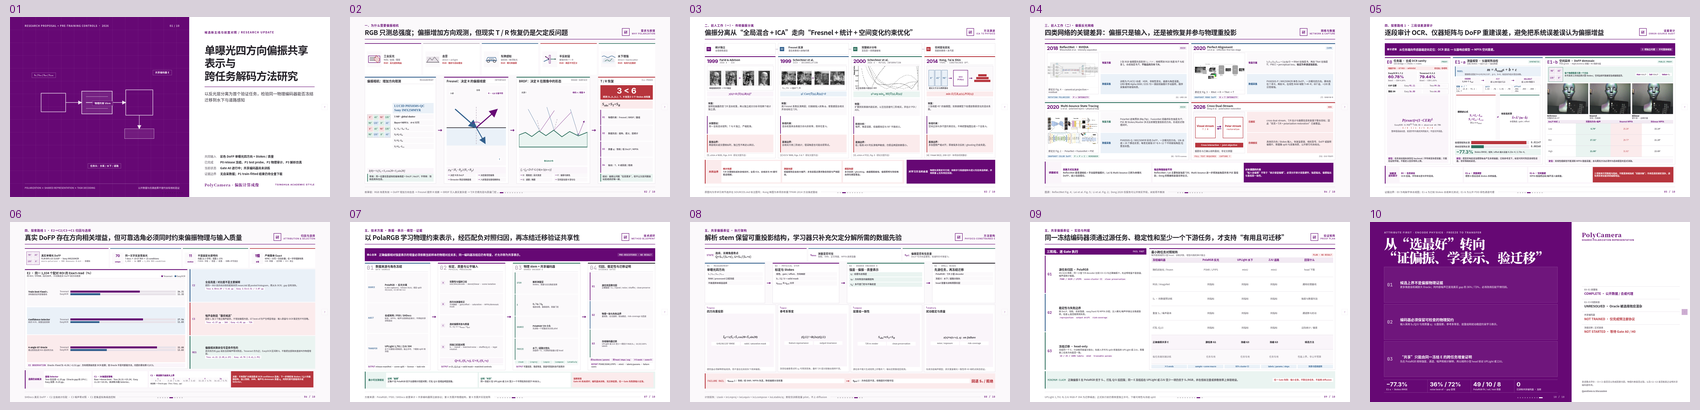
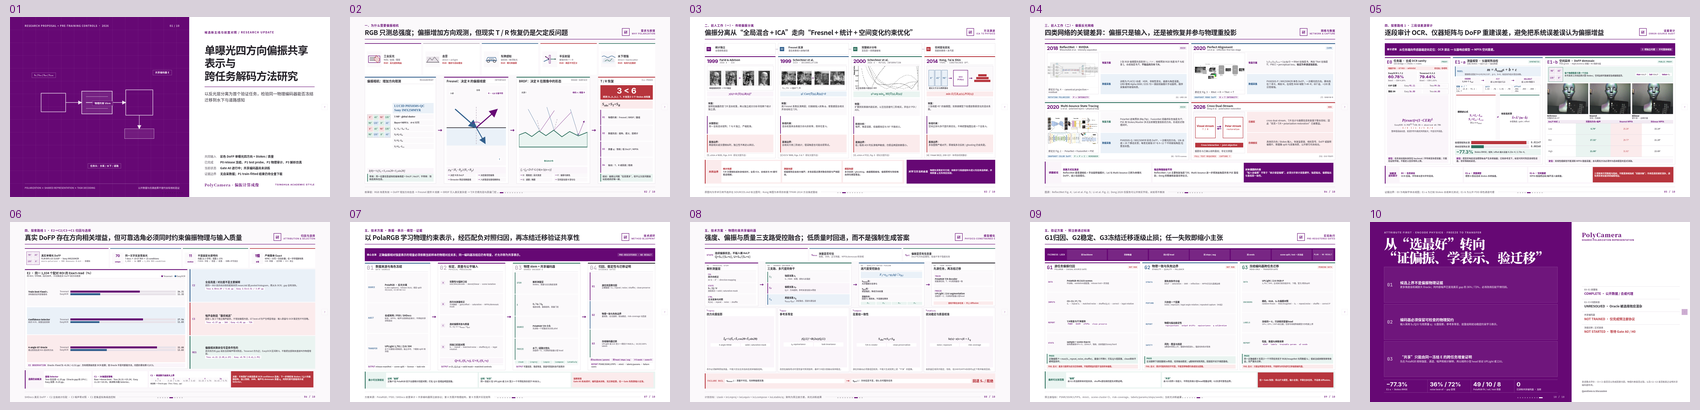
docs: refine encoder and validation gates

diff --git a/demo/tsinghua-ppt/index.html b/demo/tsinghua-ppt/index.html
@@ -846,63 +846,84 @@
   .minimum-proof{display:grid;align-content:center;padding:.44vh .46vw;background:#fff;color:var(--ink-soft);font:650 clamp(10px,.65vw,12px)/1.23 var(--sans)}.minimum-proof b{display:block;margin-bottom:.15vh;color:var(--success)}
   .minimum-proof.status{background:var(--danger-soft);color:var(--danger)}.minimum-proof.status b{color:var(--danger)}
 
-  /* 08 · 物理约束共享编码器 */
-  .physics-encoder-layout{height:100%;display:grid;grid-template-columns:1fr;grid-template-rows:7.2vh 22.5vh minmax(0,1fr) 8.4vh;gap:.82vh}
-  .representation-strip{display:grid;grid-template-columns:1.1fr 1fr 1fr;gap:.55vw}
-  .representation-card{display:grid;grid-template-columns:auto 1fr;gap:.55vw;align-items:center;padding:.6vh .62vw;border-top:3px solid var(--accent);background:#fff}
+  /* 08 · 物理约束共享编码器：三支路与质量门控 */
+  .physics-encoder-layout{height:100%;display:grid;grid-template-columns:1fr;grid-template-rows:7.2vh 24.2vh minmax(0,1fr) 8.4vh;gap:.8vh}
+  .representation-strip{display:grid;grid-template-columns:1.12fr 1fr 1fr;gap:.52vw}
+  .representation-card{display:grid;grid-template-columns:auto 1fr;gap:.52vw;align-items:center;padding:.58vh .6vw;border-top:3px solid var(--accent);background:#fff}
   .representation-card:nth-child(2){border-top-color:var(--info)}.representation-card:nth-child(3){border-top-color:var(--success)}
-  .representation-card .rid{color:var(--accent);font:800 clamp(11px,.72vw,14px)/1 var(--mono)}
-  .representation-card strong{display:block;font:750 clamp(12px,.8vw,15px)/1.15 var(--sans)}
-  .representation-card p{margin-top:.18vh;color:var(--muted);font:550 clamp(10px,.66vw,13px)/1.22 var(--sans)}
-  .representation-card .math{color:var(--ink);font-size:clamp(14px,.94vw,18px)}
-  .encoder-pipeline{display:grid;grid-template-columns:1.05fr auto 1.16fr auto 1.35fr auto 1.1fr;gap:.55vw;align-items:stretch;min-height:0}
-  .encoder-stage{display:grid;grid-template-rows:auto auto 1fr;gap:.5vh;padding:.72vh .65vw;border:1px solid var(--line);border-top:4px solid var(--info);background:#fff}
-  .encoder-stage.stem{border-top-color:var(--accent)}.encoder-stage.shared{border-top-color:var(--success)}.encoder-stage.heads{border-top-color:var(--ink)}
-  .encoder-stage .stage-id{color:var(--muted);font:800 clamp(10px,.66vw,13px)/1 var(--mono);letter-spacing:.04em}
-  .encoder-stage h2{font:750 clamp(14px,.92vw,18px)/1.16 var(--sans)}
-  .encoder-stage ul{display:grid;gap:.35vh;align-content:start;list-style:none}
-  .encoder-stage li{padding:.38vh .38vw;background:var(--paper-soft);color:var(--ink-soft);font:600 clamp(10px,.66vw,13px)/1.2 var(--sans)}
-  .encoder-stage.shared li{background:var(--success-soft)}
-  .encoder-arrow{display:grid;place-items:center;color:var(--accent);font:800 clamp(19px,1.3vw,25px)/1 var(--sans)}
-  .constraint-grid{display:grid;grid-template-columns:repeat(4,1fr);gap:.55vw;min-height:0}
-  .constraint-card{display:grid;grid-template-rows:auto auto 1fr auto;gap:.42vh;padding:.7vh .62vw;border:1px solid var(--line);background:#fff}
-  .constraint-card .loss-id{color:var(--accent);font:800 clamp(10px,.67vw,13px)/1 var(--mono)}
-  .constraint-card h3{font:750 clamp(13px,.86vw,17px)/1.16 var(--sans)}
-  .constraint-card .loss-formula{display:flex;flex-direction:column;align-items:center;justify-content:center;gap:1.2vh;padding:.55vh .4vw;background:var(--accent-pale);color:var(--ink);text-align:center;font:italic 600 clamp(14px,.96vw,18px)/1.22 var(--equation)}
-  .loss-checks{width:90%;display:grid;grid-template-columns:repeat(2,1fr);gap:.35vw;font-style:normal}
-  .loss-checks span{padding:.42vh .3vw;background:#fff;color:var(--muted);font:700 clamp(9px,.61vw,12px)/1.15 var(--sans)}
-  .constraint-card p{color:var(--muted);font:550 clamp(10px,.66vw,13px)/1.25 var(--sans)}
-  .encoder-reliability{display:grid;grid-template-columns:auto 1fr auto 1fr auto;gap:.55vw;align-items:center;padding:.58vh .65vw;background:var(--danger-soft);border-left:4px solid var(--danger)}
-  .encoder-reliability>strong{color:var(--danger);font:800 clamp(11px,.72vw,14px)/1.15 var(--mono)}
-  .encoder-reliability span{padding:.42vh .45vw;background:#fff;color:var(--ink-soft);font:650 clamp(10px,.67vw,13px)/1.2 var(--sans)}
-  .encoder-reliability em{color:var(--danger);font:800 clamp(17px,1.1vw,21px)/1 var(--sans);font-style:normal}
+  .representation-card .rid{color:var(--accent);font:800 clamp(10px,.69vw,13px)/1 var(--mono)}
+  .representation-card strong{display:block;font:750 clamp(12px,.79vw,15px)/1.15 var(--sans)}
+  .representation-card p{margin-top:.18vh;color:var(--muted);font:550 clamp(10px,.65vw,12px)/1.2 var(--sans)}
+  .representation-card .math{color:var(--ink);font-size:clamp(14px,.93vw,18px)}
+  .encoder-core-flow{display:grid;grid-template-columns:.88fr auto 1.42fr auto 1.08fr auto 1.05fr;gap:.48vw;align-items:stretch;min-height:0}
+  .encoder-core-block{min-height:0;display:grid;grid-template-rows:auto minmax(0,1fr);gap:.45vh;padding:.66vh .58vw;border:1px solid var(--line);border-top:4px solid var(--accent);background:#fff}
+  .encoder-core-block.branches{border-top-color:var(--success)}.encoder-core-block.fusion{border-top-color:var(--info)}.encoder-core-block.heads{border-top-color:var(--ink)}
+  .encoder-core-head{padding-bottom:.38vh;border-bottom:1px solid var(--line)}
+  .encoder-core-head span{display:block;color:var(--muted);font:800 clamp(9px,.59vw,11px)/1 var(--mono);letter-spacing:.04em}
+  .encoder-core-head h2{margin-top:.24vh;font:750 clamp(13px,.86vw,17px)/1.14 var(--sans)}
+  .encoder-core-arrow{display:grid;place-items:center;color:var(--accent);font:800 clamp(19px,1.28vw,25px)/1 var(--sans)}
+  .stem-steps{display:grid;grid-template-rows:repeat(3,1fr);gap:.36vh;min-height:0}
+  .stem-step{display:grid;align-content:center;padding:.45vh .4vw;background:var(--paper-soft)}
+  .stem-step b{color:var(--accent);font:800 clamp(9px,.59vw,11px)/1 var(--mono)}
+  .stem-step strong{display:block;margin-top:.2vh;font:750 clamp(10px,.67vw,12px)/1.14 var(--sans)}
+  .stem-step span{display:block;margin-top:.16vh;color:var(--muted);font:600 clamp(9px,.57vw,10px)/1.16 var(--sans)}
+  .branch-stack{display:grid;grid-template-rows:repeat(3,1fr);gap:.36vh;min-height:0}
+  .encoder-branch{display:grid;grid-template-columns:4.4em 1fr;gap:.45vw;align-items:center;padding:.45vh .4vw;background:var(--paper-soft);border-left:3px solid var(--success)}
+  .encoder-branch.pol{background:var(--accent-pale);border-left-color:var(--accent)}.encoder-branch.quality{background:var(--info-soft);border-left-color:var(--info)}
+  .encoder-branch b{color:var(--success);font:800 clamp(10px,.66vw,12px)/1.1 var(--mono)}.encoder-branch.pol b{color:var(--accent)}.encoder-branch.quality b{color:var(--info)}
+  .encoder-branch strong{display:block;font:750 clamp(10px,.68vw,13px)/1.14 var(--sans)}
+  .encoder-branch span{display:block;margin-top:.16vh;color:var(--muted);font:600 clamp(9px,.57vw,11px)/1.17 var(--sans)}
+  .fusion-stack{display:grid;grid-template-rows:auto 1fr auto;gap:.4vh;min-height:0}
+  .fusion-equation{display:grid;place-items:center;padding:.55vh .42vw;background:var(--info-soft);color:var(--info);font:italic 650 clamp(14px,.95vw,18px)/1.16 var(--equation);text-align:center}
+  .fusion-rules{display:grid;grid-template-rows:repeat(3,1fr);gap:.32vh}
+  .fusion-rules span{display:grid;align-content:center;padding:.38vh .35vw;background:var(--paper-soft);color:var(--ink-soft);font:650 clamp(9px,.6vw,11px)/1.17 var(--sans)}
+  .feature-pyramid{display:grid;grid-template-columns:repeat(4,1fr);gap:.22vw}.feature-pyramid span{padding:.32vh .18vw;background:var(--success-soft);color:var(--success);text-align:center;font:800 clamp(9px,.58vw,11px)/1 var(--mono)}
+  .head-stack{display:grid;grid-template-rows:1fr 1fr auto;gap:.38vh;min-height:0}
+  .head-card{display:grid;align-content:center;padding:.46vh .42vw;background:var(--paper-soft)}
+  .head-card b{color:var(--accent);font:800 clamp(9px,.59vw,11px)/1 var(--mono)}
+  .head-card strong{display:block;margin-top:.2vh;font:750 clamp(10px,.68vw,13px)/1.14 var(--sans)}
+  .head-card span{display:block;margin-top:.16vh;color:var(--muted);font:600 clamp(9px,.57vw,11px)/1.18 var(--sans)}
+  .head-lock{padding:.38vh .34vw;background:var(--danger-soft);color:var(--danger);text-align:center;font:750 clamp(9px,.59vw,11px)/1.14 var(--sans)}
+  .constraint-grid{display:grid;grid-template-columns:repeat(4,1fr);gap:.5vw;min-height:0}
+  .constraint-card{display:grid;grid-template-rows:auto auto 1fr auto;gap:.4vh;padding:.66vh .58vw;border:1px solid var(--line);background:#fff}
+  .constraint-card .loss-id{color:var(--accent);font:800 clamp(10px,.65vw,12px)/1 var(--mono)}
+  .constraint-card h3{font:750 clamp(12px,.82vw,16px)/1.15 var(--sans)}
+  .constraint-card .loss-formula{display:flex;flex-direction:column;align-items:center;justify-content:center;gap:1.05vh;padding:.5vh .38vw;background:var(--accent-pale);color:var(--ink);text-align:center;font:italic 600 clamp(14px,.94vw,18px)/1.2 var(--equation)}
+  .loss-checks{width:92%;display:grid;grid-template-columns:repeat(2,1fr);gap:.3vw;font-style:normal}
+  .loss-checks span{padding:.38vh .26vw;background:#fff;color:var(--muted);font:700 clamp(9px,.59vw,11px)/1.13 var(--sans)}
+  .constraint-card p{color:var(--muted);font:550 clamp(10px,.64vw,12px)/1.23 var(--sans)}
+  .encoder-reliability{display:grid;grid-template-columns:auto 1fr auto 1fr auto;gap:.52vw;align-items:center;padding:.55vh .62vw;background:var(--danger-soft);border-left:4px solid var(--danger)}
+  .encoder-reliability>strong{color:var(--danger);font:800 clamp(10px,.69vw,13px)/1.15 var(--mono)}
+  .encoder-reliability span{padding:.4vh .42vw;background:#fff;color:var(--ink-soft);font:650 clamp(10px,.65vw,12px)/1.2 var(--sans)}
+  .encoder-reliability em{color:var(--danger);font:800 clamp(16px,1.05vw,20px)/1 var(--sans);font-style:normal}
 
-  /* 09 · 三道 Gate：源任务、稳定性、冻结迁移 */
-  .proof-plan-layout{height:100%;display:grid;grid-template-columns:35% 1fr;grid-template-rows:minmax(0,1fr) 9.6vh;gap:.8vh .85vw}
-  .execution-gates{min-height:0;display:grid;grid-template-rows:auto repeat(3,1fr);gap:.48vh}
-  .execution-head{display:flex;align-items:center;justify-content:space-between;padding:.75vh .65vw;background:var(--accent);color:#fff}
-  .execution-head strong{font:800 clamp(15px,1vw,19px)/1.15 var(--sans)}
-  .execution-head span{font:750 clamp(10px,.66vw,13px)/1 var(--mono)}
-  .execution-gate{display:grid;grid-template-columns:3em 1fr;gap:.58vw;align-items:center;padding:.62vh .62vw;border-left:4px solid var(--accent);background:#fff}
-  .execution-gate:nth-child(3){border-left-color:var(--info)}.execution-gate:nth-child(4){border-left-color:var(--success)}
-  .execution-gate .gid{color:var(--accent);font:800 clamp(17px,1.12vw,22px)/1 var(--mono)}
-  .execution-gate h2{font:750 clamp(13px,.86vw,17px)/1.15 var(--sans)}
-  .execution-gate p{margin-top:.25vh;color:var(--ink-soft);font:550 clamp(10px,.67vw,13px)/1.28 var(--sans)}
-  .execution-gate .protocol-tags{display:flex;flex-wrap:wrap;gap:.25vw;margin-top:.4vh}
-  .execution-gate .protocol-tags span{padding:.24vh .3vw;background:var(--paper-soft);color:var(--accent);font:750 clamp(9px,.59vw,11px)/1 var(--mono)}
-  .proof-matrix{min-height:0;display:grid;grid-template-rows:auto minmax(0,1fr) auto;gap:.45vh;padding:.62vh .62vw;border:1px solid var(--line);border-top:4px solid var(--accent);background:#fff}
-  .proof-matrix-head{display:flex;justify-content:space-between;gap:.7vw;align-items:end}
-  .proof-matrix-head h2{font:750 clamp(14px,.92vw,18px)/1.18 var(--sans)}
-  .proof-matrix-head p{margin-top:.18vh;color:var(--muted);font:550 clamp(10px,.66vw,13px)/1.2 var(--sans)}
-  .proof-matrix-head span{padding:.34vh .4vw;background:var(--danger-soft);color:var(--danger);font:800 clamp(9px,.61vw,12px)/1 var(--mono);white-space:nowrap}
-  .proof-table{height:100%}.proof-table th,.proof-table td{padding:.48vh .42vw;text-align:center}.proof-table th:first-child,.proof-table td:first-child{text-align:left}
-  .proof-table td{font-size:clamp(11px,.73vw,14px);line-height:1.25}.proof-table tr.candidate td{background:var(--accent-pale);color:var(--ink);font-weight:700}.proof-table tr.ceiling td{background:var(--paper-soft);color:var(--muted)}
-  .proof-reporting{display:grid;grid-template-columns:repeat(5,1fr);gap:.3vw}
-  .proof-reporting span{padding:.42vh .3vw;background:var(--info-soft);color:var(--info);text-align:center;font:750 clamp(9px,.61vw,12px)/1.15 var(--sans)}
-  .proof-decision{grid-column:1/-1;display:grid;grid-template-columns:auto 1fr auto;gap:.7vw;align-items:center;padding:.65vh .68vw;background:var(--success-soft);border-left:4px solid var(--success)}
-  .proof-decision>strong{color:var(--success);font:800 clamp(11px,.72vw,14px)/1.15 var(--mono)}
-  .proof-decision>span{color:var(--ink-soft);font:700 clamp(12px,.8vw,15px)/1.28 var(--sans)}
-  .proof-decision>em{padding:.38vh .45vw;background:#fff;color:var(--danger);font:750 clamp(10px,.66vw,13px)/1.15 var(--sans);font-style:normal;text-align:center}
+  /* 09 · 预注册验证：三道 Gate 与失败含义 */
+  .gate-proof-layout{height:100%;display:grid;grid-template-columns:1fr;grid-template-rows:7.1vh minmax(0,1fr) 9.5vh;gap:.8vh}
+  .gate-fairness-strip{display:grid;grid-template-columns:auto repeat(6,1fr) auto;gap:.35vw;align-items:stretch;padding:.58vh .6vw;background:var(--accent);color:#fff}
+  .gate-fairness-strip>strong{display:grid;place-items:center;padding:0 .32vw;font:800 clamp(10px,.69vw,13px)/1.15 var(--mono)}
+  .gate-fairness-strip span{display:grid;place-items:center;padding:.38vh .3vw;background:rgba(255,255,255,.12);text-align:center;font:700 clamp(9px,.59vw,11px)/1.12 var(--sans)}
+  .gate-fairness-strip em{display:grid;place-items:center;padding:0 .4vw;background:rgba(255,255,255,.15);font:750 clamp(9px,.59vw,11px)/1.12 var(--mono);font-style:normal;white-space:nowrap}
+  .gate-card-grid{min-height:0;display:grid;grid-template-columns:repeat(3,1fr);gap:.65vw}
+  .gate-proof-card{min-height:0;display:grid;grid-template-rows:auto minmax(0,1fr) auto auto;gap:.48vh;padding:.66vh .6vw;border:1px solid var(--line);border-top:4px solid var(--accent);background:#fff}
+  .gate-proof-card.g2{border-top-color:var(--info)}.gate-proof-card.g3{border-top-color:var(--success)}
+  .gate-proof-head{display:grid;grid-template-columns:auto 1fr auto;gap:.5vw;align-items:center;padding-bottom:.42vh;border-bottom:1px solid var(--line)}
+  .gate-proof-head .gid{color:var(--accent);font:800 clamp(22px,1.55vw,30px)/1 var(--mono)}.gate-proof-card.g2 .gid{color:var(--info)}.gate-proof-card.g3 .gid{color:var(--success)}
+  .gate-proof-head h2{font:750 clamp(14px,.92vw,18px)/1.14 var(--sans)}
+  .gate-proof-head p{margin-top:.17vh;color:var(--muted);font:650 clamp(9px,.59vw,11px)/1.14 var(--sans)}
+  .gate-proof-head .state{padding:.32vh .38vw;background:var(--danger-soft);color:var(--danger);font:800 clamp(9px,.58vw,11px)/1 var(--mono);white-space:nowrap}
+  .gate-proof-body{min-height:0;display:grid;grid-template-rows:repeat(4,1fr);gap:.38vh}
+  .gate-protocol-block{display:grid;grid-template-columns:5.4em 1fr;gap:.45vw;align-items:center;padding:.45vh .42vw;background:var(--paper-soft)}
+  .gate-protocol-block b{color:var(--accent);font:800 clamp(9px,.59vw,11px)/1.08 var(--mono)}.gate-proof-card.g2 .gate-protocol-block b{color:var(--info)}.gate-proof-card.g3 .gate-protocol-block b{color:var(--success)}
+  .gate-protocol-block strong{display:block;font:750 clamp(10px,.68vw,13px)/1.14 var(--sans)}
+  .gate-protocol-block span{display:block;margin-top:.16vh;color:var(--muted);font:600 clamp(9px,.58vw,11px)/1.18 var(--sans)}
+  .gate-metric-tags{display:flex;flex-wrap:wrap;gap:.24vw;margin-top:.22vh}.gate-metric-tags i{padding:.24vh .28vw;background:#fff;color:var(--accent);font:750 clamp(8px,.55vw,10px)/1 var(--mono);font-style:normal}
+  .gate-pass{padding:.55vh .48vw;background:var(--success-soft);border-left:3px solid var(--success);color:var(--ink-soft);font:650 clamp(10px,.65vw,12px)/1.23 var(--sans)}
+  .gate-pass b{display:block;margin-bottom:.16vh;color:var(--success);font-weight:800}
+  .gate-fail{padding:.48vh .45vw;background:var(--danger-soft);color:var(--danger);font:750 clamp(9px,.61vw,11px)/1.2 var(--sans)}
+  .gate-final{display:grid;grid-template-columns:auto 1.1fr 1.1fr auto;gap:.45vw;align-items:stretch;padding:.58vh .6vw;background:var(--success-soft);border-left:4px solid var(--success)}
+  .gate-final>strong{display:grid;place-items:center;padding:0 .3vw;color:var(--success);font:800 clamp(10px,.69vw,13px)/1.15 var(--mono);text-align:center}
+  .gate-final-item{display:grid;align-content:center;padding:.43vh .45vw;background:#fff;color:var(--ink-soft);font:650 clamp(10px,.65vw,12px)/1.22 var(--sans)}.gate-final-item b{display:block;margin-bottom:.15vh;color:var(--success)}
+  .gate-final em{display:grid;place-items:center;padding:.42vh .5vw;background:var(--danger);color:#fff;text-align:center;font:750 clamp(10px,.64vw,12px)/1.2 var(--sans);font-style:normal}
 
   /* 10 · 结果式收束 */
   .compact-closing{height:100%;display:grid;grid-template-columns:63% 1fr;background:var(--accent);color:#fff}
@@ -1203,22 +1224,24 @@
 </section>
 
 <section class="slide soft" data-layout="THU11" data-animate="academic" data-slide-id="physics-constrained-encoder">
-  <div class="thu-page"><header class="thu-header"><div><div class="thu-section">五、共享偏振表征 · 执行架构</div><h1 class="thu-title">解析 stem 保留可重投影结构，学习器只补充欠定分解所需的数据先验</h1></div><div class="thu-brand"><div class="thu-brand-mark">研</div><div class="thu-brand-copy"><strong>方法架构</strong><span>Physics-constrained E</span></div></div></header>
+  <div class="thu-page"><header class="thu-header"><div><div class="thu-section">五、技术方案 · 物理约束共享编码器</div><h1 class="thu-title">强度、偏振与质量三支路受控融合；低质量时回退，而不是强制生成答案</h1></div><div class="thu-brand"><div class="thu-brand-mark">研</div><div class="thu-brand-copy"><strong>模型细化</strong><span>PHYSICS-CONSTRAINED E</span></div></div></header>
   <main class="thu-content tight"><div class="physics-encoder-layout architecture-layout">
-    <div class="representation-strip" data-anim><article class="representation-card"><span class="rid">STATE</span><div><strong>连续、无裸角度奇点</strong><p class="math">Q=S₁/(S₀+ε), U=S₂/(S₀+ε)</p></div></article><article class="representation-card"><span class="rid">q<sub>meas</sub></span><div><strong>测量是否可信</strong><p>饱和、SNR、正交残差、MPFA 高频混叠</p></div></article><article class="representation-card"><span class="rid">q<sub>pol</sub></span><div><strong>偏振是否有信息量</strong><p>DoLP 与方向显著性；低值时仍可保留 S₀</p></div></article></div>
-    <div class="encoder-pipeline" data-anim><article class="encoder-stage"><span class="stage-id">01 · MEASUREMENT</span><h2>单曝光四方向</h2><ul><li>I₀ / I₄₅ / I₉₀ / I₁₃₅</li><li>RAW / processed 口径冻结</li><li>不做逐样本候选选择</li></ul></article><span class="encoder-arrow">→</span><article class="encoder-stage stem"><span class="stage-id">02 · PHYSICAL STEM</span><h2>标定与 Stokes</h2><ul><li>线性、gain / offset、方向映射</li><li>S₀ / Q / U + valid mask</li><li>q<sub>meas</sub> 与 q<sub>pol</sub> 分开</li></ul></article><span class="encoder-arrow">→</span><article class="encoder-stage shared"><span class="stage-id">03 · SHARED ENCODER E</span><h2>强度—偏振—质量表示</h2><ul><li>z<sub>I</sub>：纹理与总强度</li><li>z<sub>P</sub>：方向等变的偏振结构</li><li>z<sub>q</sub>：多尺度门控与不确定度</li></ul></article><span class="encoder-arrow">→</span><article class="encoder-stage heads"><span class="stage-id">04 · SMALL HEADS</span><h2>先源任务，再冻结迁移</h2><ul><li>PolaRGB：T/R 小型 decoder</li><li>冻结 E：水下 / 道路分割头</li><li>head 容量与训练预算匹配</li></ul></article></div>
-    <div class="constraint-grid" data-anim><article class="constraint-card"><span class="loss-id">L<sub>reproj</sub></span><h3>四方向重投影</h3><div class="loss-formula"><span>Î<sub>θ</sub>=½(Ŝ₀+Ŝ₁cos2θ+Ŝ₂sin2θ)</span><div class="loss-checks"><span>0/45/90/135° RMSE</span><span>valid / saturation mask</span></div></div><p>潜变量必须解释原始观测，而不是在任务损失下丢掉偏振。</p></article><article class="constraint-card"><span class="loss-id">L<sub>equiv</sub></span><h3>参考系等变</h3><div class="loss-formula"><span>(Q,U)′=R(2α)(Q,U)</span><div class="loss-checks"><span>feature equivariance</span><span>output invariance</span></div></div><p>改变检偏角零点时 z<sub>P</sub> 可预测变换，最终 T/R 或分割输出保持不变。</p></article><article class="constraint-card"><span class="loss-id">L<sub>compose</sub></span><h3>层重组一致性</h3><div class="loss-formula"><span>S<sub>obs</sub>≈τS<sub>T</sub>+S<sub>R</sub></span><div class="loss-checks"><span>T/R re-render</span><span>clean preservation</span></div></div><p>源任务不能只生成视觉上好看的 T；输出层需重组回观测。</p></article><article class="constraint-card"><span class="loss-id">L<sub>stable/q</sub></span><h3>扰动稳定与质量</h3><div class="loss-formula"><span>z(x)≈z(x+ε), q↓ on failure</span><div class="loss-checks"><span>noise / exposure</span><span>risk–coverage</span></div></div><p>先用冻结噪声模型；真实重复曝光一致性待 H0 相机试采后验证。</p></article></div>
-    <div class="encoder-reliability" data-anim><strong>FAILURE RAIL</strong><span><b>q<sub>meas</sub>↓：</b>饱和 / 低 SNR / MPFA 失真，降低偏振分支权重</span><em>→</em><span><b>q<sub>pol</sub>↓：</b>方向信息不足，但强度仍可能可信</span><em>回退 S₀ / 拒绝</em></div>
-  </div></main><footer class="thu-footer"><span>计划损失：Ltask + λrLreproj + λeLequiv + λcLcompose + λsLstable/q；首轮仅训练轻量 pilot，不上 diffusion</span><span class="thu-footer-line"></span><span class="thu-page-no">08 / 10</span></footer></div>
+    <div class="representation-strip" data-anim><article class="representation-card"><span class="rid">STATE</span><div><strong>连续偏振状态，不输入裸 AoLP</strong><p class="math">Q=S₁/(S₀+ε), U=S₂/(S₀+ε)</p></div></article><article class="representation-card"><span class="rid">q<sub>meas</sub></span><div><strong>测量是否可信</strong><p>饱和、SNR、正交残差、MPFA/demosaic有效域</p></div></article><article class="representation-card"><span class="rid">q<sub>pol</sub></span><div><strong>偏振是否有信息量</strong><p>DoLP与方向显著性；低值不等于强度无效</p></div></article></div>
+    <div class="encoder-core-flow" data-anim><article class="encoder-core-block stem"><div class="encoder-core-head"><span>01 · PHYSICAL STEM</span><h2>解析测量层</h2></div><div class="stem-steps"><div class="stem-step"><b>CAL</b><strong>四方向校正</strong><span>m−b · Â<sup>+</sup> · direction mapping</span></div><div class="stem-step"><b>STATE</b><strong>S₀ / Q / U</strong><span>连续表示 + valid / saturation mask</span></div><div class="stem-step"><b>CTRL</b><strong>合法变换与对照</strong><span>R(2α) · repeat · noise · shuffle</span></div></div></article><span class="encoder-core-arrow">→</span><article class="encoder-core-block branches"><div class="encoder-core-head"><span>02 · SHARED ENCODER E</span><h2>三支路、多尺度同骨干</h2></div><div class="branch-stack"><div class="encoder-branch"><b>E<sub>I</sub></b><div><strong>强度支路 z<sub>I</sub></strong><span>S₀ / RGB：纹理、颜色与总强度</span></div></div><div class="encoder-branch pol"><b>E<sub>P</sub></b><div><strong>偏振支路 z<sub>P</sub></strong><span>Q,U：方向结构；参考系变化按2α等变</span></div></div><div class="encoder-branch quality"><b>E<sub>q</sub></b><div><strong>质量支路 z<sub>q</sub></strong><span>q<sub>meas</sub>,q<sub>pol</sub>：决定融合、回退与置信度</span></div></div></div></article><span class="encoder-core-arrow">→</span><article class="encoder-core-block fusion"><div class="encoder-core-head"><span>03 · QUALITY-GATED FUSION</span><h2>逐尺度受控融合</h2></div><div class="fusion-stack"><div class="fusion-equation"><span>F<sub>ℓ</sub>=z<sub>I,ℓ</sub>+g<sub>ℓ</sub>(q)⊙z<sub>P,ℓ</sub></span></div><div class="fusion-rules"><span><b>q<sub>meas</sub>高：</b>允许偏振分支参与</span><span><b>q<sub>pol</sub>低：</b>保留强度，降低方向权重</span><span><b>测量失效：</b>回退 S₀ 或拒绝，不高置信猜测</span></div><div class="feature-pyramid"><span>F₁</span><span>F₂</span><span>F₃</span><span>F₄</span></div></div></article><span class="encoder-core-arrow">→</span><article class="encoder-core-block heads"><div class="encoder-core-head"><span>04 · TASK HEADS</span><h2>先源任务，再冻结迁移</h2></div><div class="head-stack"><div class="head-card"><b>TRAIN</b><strong>PolaRGB T/R decoder</strong><span>轻量源任务；T、R与观测重组一致</span></div><div class="head-card"><b>FREEZE</b><strong>UPLight / ZJU segmentation</strong><span>冻结同一 E；只训练同容量小型head</span></div><div class="head-lock">首轮不联合多任务 · 不上 diffusion</div></div></article></div>
+    <div class="constraint-grid" data-anim><article class="constraint-card"><span class="loss-id">L<sub>reproj</sub></span><h3>四方向重投影</h3><div class="loss-formula"><span>Î<sub>θ</sub>=½(Ŝ₀+Ŝ₁cos2θ+Ŝ₂sin2θ)</span><div class="loss-checks"><span>4-angle RMSE</span><span>valid / saturation mask</span></div></div><p>表示必须解释原始测量，不能只优化任务指标后丢掉偏振结构。</p></article><article class="constraint-card"><span class="loss-id">L<sub>equiv</sub></span><h3>参考系等变</h3><div class="loss-formula"><span>(Q,U)′=R(2α)(Q,U)</span><div class="loss-checks"><span>z<sub>P</sub> equivariance</span><span>task invariance</span></div></div><p>改变检偏角零点时潜变量可预测旋转，最终T/R或分割输出保持稳定。</p></article><article class="constraint-card"><span class="loss-id">L<sub>compose</sub></span><h3>层重组一致性</h3><div class="loss-formula"><span>S<sub>obs</sub>≈τS<sub>T</sub>+S<sub>R</sub></span><div class="loss-checks"><span>T/R re-render</span><span>clean preservation</span></div></div><p>源任务输出必须重组回观测，不能只生成视觉上更“干净”的图像。</p></article><article class="constraint-card"><span class="loss-id">L<sub>stable/q</sub></span><h3>扰动稳定与质量校准</h3><div class="loss-formula"><span>‖z(x)−z(x+ε)‖ + L<sub>q</sub></span><div class="loss-checks"><span>noise / exposure</span><span>risk–coverage</span></div></div><p>高质量区域表示稳定；饱和、低SNR与MPFA失败时q应下降并触发回退。</p></article></div>
+    <div class="encoder-reliability" data-anim><strong>FAILURE RAIL</strong><span><b>q<sub>meas</sub>↓：</b>测量不可信，先抑制偏振支路</span><em>→</em><span><b>q<sub>pol</sub>↓：</b>方向信息不足，但S₀仍可服务任务</span><em>回退 S₀ / 拒绝</em></div>
+  </div></main><footer class="thu-footer"><span>计划目标：Ltask + λrLreproj + λeLequiv + λcLcompose + λsLstable/q；架构为预注册方案，尚无训练结果</span><span class="thu-footer-line"></span><span class="thu-page-no">08 / 10</span></footer></div>
 </section>
 
 <section class="slide" data-layout="THU12" data-animate="academic" data-slide-id="encoder-proof-plan">
-  <div class="thu-page"><header class="thu-header"><div><div class="thu-section">五、共享偏振表征 · 实验与判据</div><h1 class="thu-title">同一冻结编码器须通过源任务、稳定性和至少一个下游任务，才支持“有用且可迁移”</h1></div><div class="thu-brand"><div class="thu-brand-mark">研</div><div class="thu-brand-copy"><strong>验证矩阵</strong><span>Proof Plan</span></div></div></header>
-  <main class="thu-content tight"><div class="proof-plan-layout experiment-layout">
-    <div class="execution-gates" data-anim><div class="execution-head"><strong>三阶段、逐 Gate 执行</strong><span>FAIL FAST</span></div><article class="execution-gate"><span class="gid">G1</span><div><h2>源任务归因 · PolaRGB</h2><p>49/10/8 场景；同一小型 T/R decoder 比较 C0–C3 与正确偏振 P，先证明增量不是容量、噪声或统计偏差。</p><div class="protocol-tags"><span>PSNR / SSIM / LPIPS</span><span>scene-cluster CI</span><span>clean preservation</span></div></div></article><article class="execution-gate"><span class="gid">G2</span><div><h2>稳定性与失败边界</h2><p>按 DoLP、饱和、反射强度、easy/hard 与 MPFA 分组；注入曝光/噪声并做合法角度旋转，检查 q 是否能预测失败。</p><div class="protocol-tags"><span>reprojection</span><span>output drift</span><span>risk–coverage</span></div></div></article><article class="execution-gate"><span class="gid">G3</span><div><h2>冻结迁移 · head-only</h2><p>冻结同一个 E，只训练同容量分割头；先接入许可与 split 核查后的 UPLight 或 ZJU，再看第二任务方向是否一致。</p><div class="protocol-tags"><span>10 / 25 / 100% labels</span><span>mIoU</span><span>trainable params</span></div></div></article></div>
-    <article class="proof-matrix" data-anim><div class="proof-matrix-head"><div><h2>最小跨任务对照矩阵</h2><p>每列使用相同小型 head、训练步数、增强与随机种子集合</p></div><span>PLAN · NO RESULT</span></div><table class="proof-table"><thead><tr><th>冻结编码器</th><th>PolaRGB 反光</th><th>UPLight 水下</th><th>ZJU 道路</th><th>回答什么</th></tr></thead><tbody><tr><td>随机初始化 / frozen</td><td>PSNR / LPIPS</td><td>mIoU</td><td>mIoU</td><td>head 下限</td></tr><tr><td>RGB / ImageNet</td><td>同指标</td><td>同指标</td><td>同指标</td><td>通用纹理基线</td></tr><tr><td>S₀ · 同数据预训练</td><td>同指标</td><td>同指标</td><td>同指标</td><td>强度与数据先验</td></tr><tr><td>重复 S₀ / 噪声副本</td><td>同指标</td><td>同指标</td><td>同指标</td><td>通道数与扰动</td></tr><tr><td>打乱 (Q,U)</td><td>同指标</td><td>同指标</td><td>同指标</td><td>边际统计 / 偏差</td></tr><tr class="candidate"><td>正确偏振共享 E</td><td><strong>源任务 G1</strong></td><td><strong>冻结 G3</strong></td><td><strong>冻结 G3</strong></td><td>候选方法</td></tr><tr class="ceiling"><td>每任务端到端训练</td><td>任务专用</td><td>任务专用</td><td>任务专用</td><td>性能上界，非公平预算</td></tr></tbody></table><div class="proof-reporting"><span>≥3 seeds</span><span>sample + scene macro</span><span>95% cluster CI</span><span>labels / params / steps</span><span>失败与拒绝案例</span></div></article>
-    <div class="proof-decision" data-anim><strong>MINIMUM CLAIM</strong><span>正确偏振 E 在 PolaRGB 优于 S₀，打乱 Q/U 后回落；同一 E 冻结后在 UPLight 或 ZJU 至少一项仍优于 S₀/RGB，并在低标注量或参数效率上体现收益。</span><em>任一 Gate 失败：缩小主张，不联合多任务、不启用 diffusion</em></div>
-  </div></main><footer class="thu-footer"><span>UPLight 1,791 与 ZJU RGB-P 394 为迁移候选；正式执行前仍需核查独立许可、下载可用性与冻结 split</span><span class="thu-footer-line"></span><span class="thu-page-no">09 / 10</span></footer></div>
+  <div class="thu-page"><header class="thu-header"><div><div class="thu-section">五、验证方案 · 预注册通过标准</div><h1 class="thu-title">G1归因、G2稳定、G3冻结迁移逐级止损；任一失败即缩小主张</h1></div><div class="thu-brand"><div class="thu-brand-mark">研</div><div class="thu-brand-copy"><strong>实验执行</strong><span>PRE-REGISTERED GATES</span></div></div></header>
+  <main class="thu-content tight"><div class="gate-proof-layout experiment-layout">
+    <div class="gate-fairness-strip" data-anim><strong>FAIRNESS LOCK</strong><span>同 backbone</span><span>同参数量</span><span>同小型 head</span><span>同 steps / aug</span><span>同 seeds</span><span>scene split / test 一次冻结</span><em>PLAN · NO RESULT</em></div>
+    <div class="gate-card-grid" data-anim><article class="gate-proof-card g1"><div class="gate-proof-head"><span class="gid">G1</span><div><h2>源任务偏振归因</h2><p>POLARGB · CAUSAL SOURCE GATE</p></div><span class="state">NOT RUN</span></div><div class="gate-proof-body"><div class="gate-protocol-block"><b>DATA</b><div><strong>PolaRGB 49/10/8 scenes</strong><span>fit训练、validation选配置、release test一次冻结</span></div></div><div class="gate-protocol-block"><b>INPUTS</b><div><strong>C0–C3 / P / T1</strong><span>S₀ · repeat S₀ · matched noise · shuffle(Q,U) · correct · legal rotation</span></div></div><div class="gate-protocol-block"><b>REPORT</b><div><strong>T/R恢复与干净保持</strong><div class="gate-metric-tags"><i>PSNR↑</i><i>SSIM↑</i><i>LPIPS↓</i><i>clean preserve</i></div></div></div><div class="gate-protocol-block"><b>STATS</b><div><strong>sample + scene macro</strong><span>按场景聚类95% CI；分DoLP、饱和、反射强度与easy/hard</span></div></div></div><div class="gate-pass"><b>PASS</b>正确偏振 P &gt; max{S₀, repeat, noise, shuffle}，差值CI不跨0；打乱Q/U后回落，clean样本不被明显改坏。</div><div class="gate-fail">FAIL 含义：最多只能称为反光任务网络，不能把增益归因于当前样本偏振。</div></article>
+      <article class="gate-proof-card g2"><div class="gate-proof-head"><span class="gid">G2</span><div><h2>物理一致与失败边界</h2><p>STABILITY · QUALITY · FALLBACK</p></div><span class="state">NOT RUN</span></div><div class="gate-proof-body"><div class="gate-protocol-block"><b>STRATA</b><div><strong>按失效条件分组</strong><span>DoLP · saturation · SNR · reflection · MPFA方法与高频边缘</span></div></div><div class="gate-protocol-block"><b>PERTURB</b><div><strong>只改变一个因素</strong><span>noise / exposure / legal angle rotation / repeated capture（H0后）</span></div></div><div class="gate-protocol-block"><b>REPORT</b><div><strong>物理与输出稳定性</strong><div class="gate-metric-tags"><i>reprojection↓</i><i>output drift↓</i><i>equivariance</i><i>q calibration</i></div></div></div><div class="gate-protocol-block"><b>SAFETY</b><div><strong>风险—覆盖与回退</strong><span>q降低时风险上升；偏振失效回退S₀，强度也失效才拒绝</span></div></div></div><div class="gate-pass"><b>PASS</b>合法旋转下潜变量按2α等变、任务输出稳定；q能排序失败风险，回退后不劣于强度基线。</div><div class="gate-fail">FAIL 含义：表示可能有效但不可靠，不能宣称物理约束或安全部署。</div></article>
+      <article class="gate-proof-card g3"><div class="gate-proof-head"><span class="gid">G3</span><div><h2>冻结编码器跨任务迁移</h2><p>HEAD-ONLY · TRANSFER GATE</p></div><span class="state">PENDING DATA</span></div><div class="gate-proof-body"><div class="gate-protocol-block"><b>DATA</b><div><strong>UPLight / ZJU RGB-P</strong><span>1,791 / 394；正式执行前冻结许可、下载、官方/项目split</span></div></div><div class="gate-protocol-block"><b>ENCODERS</b><div><strong>随机、RGB、S₀与偏振对照</strong><span>random frozen · RGB/ImageNet · S₀ · repeat/noise · shuffle · correct P</span></div></div><div class="gate-protocol-block"><b>LABELS</b><div><strong>冻结同一 E，只训练同容量head</strong><span>10% / 25% / 100%标注量；任务专用端到端模型只作性能上界</span></div></div><div class="gate-protocol-block"><b>REPORT</b><div><strong>性能、数据与参数效率</strong><div class="gate-metric-tags"><i>mIoU↑</i><i>labels</i><i>trainable params</i><i>≥3 seeds</i></div></div></div></div><div class="gate-pass"><b>PASS</b>同一正确偏振 E 在至少一个不同任务优于 RGB/ImageNet 与同数据 S₀；低标注或参数效率有收益，无严重负迁移。</div><div class="gate-fail">FAIL 含义：只能证明源任务有效，不能称为共享或可迁移偏振编码器。</div></article></div>
+    <div class="gate-final" data-anim><strong>最终可主张范围</strong><div class="gate-final-item"><b>“偏振”</b>由 G1 的当前样本对应关系、shuffle退化和匹配负对照证明。</div><div class="gate-final-item"><b>“共享”</b>由 G3 的同一冻结 E、不同任务和小型head增量证明；G2负责可靠性边界。</div><em>任一 Gate 失败：停止扩大模型，缩小主张；不联合多任务、不启用 diffusion。</em></div>
+  </div></main><footer class="thu-footer"><span>预注册指标：PSNR/SSIM/LPIPS、mIoU、scene-cluster CI、risk–coverage、labels/params/steps/seeds；当前无训练结果</span><span class="thu-footer-line"></span><span class="thu-page-no">09 / 10</span></footer></div>
 </section>
 
 <section class="slide accent" data-layout="THU17" data-animate="academic" data-slide-id="conclusion">
@@ -1237,8 +1260,8 @@ const SPEAKER_NOTES = [
   {id:'route1-foundation',title:'探索路线 1 · 三段误差源审计',section:'探索路线 1',minutes:1.3,purpose:'从任务读出、仪器响应和 DoFP 空间重建三段逆向定位偏振系统中的独立误差源',talk:['这不是把三项百分比相加的统一误差预算；E0、E1-a、E1-b 使用不同数据与指标，作用是逐段锁定混杂因素','E0 是电脑字体、GT ROI 与字符白名单下的软件 sanity：EasyOCR 的 CER 只有 4.20%，但字符串长度和易混字符会把整串 Exact 放大到 60.78%，它不是实拍喷码上限','E1-a 把测量写成 m=Areal·s+b+ε；用已知合成 Stokes 的前 2,500 组估计 A,b，再在留出的 2,500 组反演，RMSE 从理想矩阵的 0.01147 降到 0.00260','E1-b 模拟 2×2 MPFA 每像素只测一个方向，再比较完整四方向、最近邻和双线性；伪彩图中色相是 AoLP、饱和度是 DoLP、亮度是 S0','双线性减轻但没有消除空间插值误差，所以 OCR backend、标定矩阵和 demosaic 都必须冻结或进入后续消融，不能被模型增益吸收'],transition:'三段测量链误差被显式化后，下一页继续检验 E2 的 Oracle gap 是否只是候选数量、图像统计和噪声选择效应',cue:'按左到右讲三段误差源；E1-b 先指 2×2 排列，再读伪彩图图例和 40 场景均值表'},
   {id:'route1-hypothesis-chain',title:'E2–C3–C1 · 方向归因与选择',section:'探索路线 1',minutes:1.3,purpose:'把真实 DoFP 方向差异、亮度统计、噪声选择下限和密集候选控制串成一条归因—选择—决策链',talk:['E2 的真实 DoFP 配对结果先建立观察：同一 ROI、字符串和高光条件下，Oracle–Fixed 在 Tesseract / EasyOCR 上为 +6.58 / +2.51 pp，说明四方向观测会改变 OCR 输出；绝对正确率仍受 1–376 字符和严格 Exact 压低','C2 把每个 ROI 的四方向匹配到共同 mean/std 或 pooled histogram 后重新 OCR；Tesseract gap 仍为 6.09 / 5.61 pp，Easy 为 2.51 / 3.87 pp，因此全局亮度和对比度不是主要解释，但局部高光结构仍被保留','C3 固定 I0，只加入三个独立噪声副本；GT best-of 已产生 +2.37 / +1.81 pp，相当于真实 gap 的 36% / 72%。这说明噪声与 OCR 稳定性会制造“最优候选”，输入质量必须进入方法主体','用真实 gap 对比当前噪声零对照后，Tesseract 仍剩 +4.21 pp 且区间不跨 0，Easy 只剩 +0.70 pp 且区间跨 0；因此偏振相关剩余信号是条件性、后端相关的，不能把全部剩余直接叫作物理增益','基础 confidence selector 对 Tesseract 只兑现 Oracle gap 的 19%，Easy 还下降；C1 的36角固定策略不优于 raw，而候选数只把 Oracle gap 放大到 14.41 / 5.71 pp。C1 没有训练36路 selector，结论是单纯扩大搜索空间无解，下一步应用校准 Stokes/Q,U 与饱和、SNR、噪声、demosaic 质量 q 共同约束可部署表示或 Selector'],transition:'方向差异、输入质量和候选选择已经分开后，下一页进一步用匹配输入干预定义什么结果才允许归因于当前样本的真实偏振信息',cue:'按左侧 E2 → 右侧 C2/C3/剩余信号 → 底部 Selector/C1 → 红色决策条的顺序讲'},
   {id:'polarization-attribution',title:'技术方案 · 数据到证据闭环',section:'共享偏振表征',minutes:1.3,purpose:'用一页总览数据来源、物理处理、共享编码器与三道证据 Gate，建立第 8–9 页的执行导航',talk:['数据按角色冻结：PolaRGB 是 6,500 组反光分离源任务并使用项目 49/10/8 场景划分；合成矩阵、PDD 和 SHDocs 只做标定、MPFA、噪声与选择效应审计；UPLight 与 ZJU 是许可和 split 待核查的冻结迁移候选','数据处理先冻结完整性、scene isolation 与 stored/linear 口径，再校正方向映射、gain/offset、饱和与 MPFA；主表示采用 S0/Q/U 和分开的 q_meas、q_pol','重复 S0、匹配噪声、跨样本打乱 Q/U 与合法零点旋转从数据接口阶段生成，确保负对照不是训练后补解释','模型由解析 physical stem、共享编码器 E 和同容量小型任务头组成；先训练 PolaRGB T/R pilot，再冻结同一 E 接水下或道路分割头','结果必须依次通过 G1 源任务归因、G2 物理一致与失败边界、G3 冻结迁移；当前仅完成预注册，编码器和迁移均无结果'],transition:'总体闭环确定后，下一页展开 physical stem、双质量变量、共享潜表示与四类损失如何具体实现',cue:'沿 01→04 从左到右讲，最后只读底部“证明偏振 / 证明共享 / 当前状态”三条'},
-  {id:'physics-constrained-encoder',title:'物理约束共享编码器',section:'共享偏振表征',minutes:1.2,purpose:'定义解析 stem、双质量变量、共享表示和四类可验证约束',talk:['主输入使用 S0、Q、U，避免直接输入低 DoLP 区不稳定的裸 AoLP','q_meas 表示测量是否可信，q_pol 表示偏振是否有信息量；高 DoLP 但饱和与低 DoLP 但强度可信必须区分','编码器分出强度表示 zI、方向等变偏振表示 zP 和质量门控 zq，再连接小型任务头','重投影约束防止网络丢掉四方向物理，参考系等变约束角度几何，层重组约束源任务解释观测','扰动稳定先用冻结噪声模型；真实重复曝光只能在 H0 相机试采后验证，当前不冒充已有结果'],transition:'有了方法结构后，下一页给出怎样训练、怎样冻结、什么结果才算有用'},
-  {id:'encoder-proof-plan',title:'共享编码器实验与通过判据',section:'共享偏振表征',minutes:1.2,purpose:'用 G1 源任务归因、G2 稳定性和 G3 冻结迁移证明编码器有用',talk:['G1 在 PolaRGB 49/10/8 场景划分上，用同一小型 decoder 比较全部输入对照，并报告场景聚类区间与 clean preservation','G2 按 DoLP、饱和、反射强度、easy/hard 和 MPFA 分组，检验重投影、输出漂移和风险覆盖关系','G3 冻结同一个编码器，只训练相同容量分割头，并比较 10%、25%、100% 标签量','共享的核心证据是 UPLight 或 ZJU 至少一个任务优于 S0/RGB；偏振的核心证据是打乱 Q/U 后回落','UPLight 与 ZJU 仍需先核查独立许可和冻结 split；任一 Gate 失败就缩小主张，不转向联合多任务或 diffusion'],transition:'最后用已完成、未完成和唯一下一项证据收束',cue:'从左侧 G1→G3 讲执行顺序，再读右侧矩阵和底部 minimum claim'},
+  {id:'physics-constrained-encoder',title:'三支路物理约束共享编码器',section:'共享偏振表征',minutes:1.2,purpose:'细化解析 stem、强度/偏振/质量三支路、逐尺度质量门控、任务头和四类辅助约束',talk:['输入采用 S0/Q/U，不使用低DoLP区不连续的裸AoLP；q_meas描述饱和、SNR、正交残差和MPFA有效域，q_pol描述DoLP与方向信息量，两者不能混为一谈','解析stem先用标定矩阵校正四方向，再生成连续状态、valid mask、合法零点旋转和匹配负对照','共享编码器内部保留强度支路 EI、偏振支路 EP 和质量支路 Eq；偏振支路学习按2α等变的方向结构，质量支路决定融合权重和置信度','逐尺度融合使用 F_l=zI_l+g_l(q)⊙zP_l；q_meas低时先抑制偏振分支，q_pol低时仍保留强度，测量整体失效才拒绝','源任务只连接轻量PolaRGB T/R decoder，迁移时冻结同一E并替换同容量分割头；重投影、等变、层重组和稳定/质量损失用于检查表示没有丢掉物理'],transition:'模型内部结构明确后，下一页把每项主张绑定到可复现的输入、指标、通过条件和失败含义',cue:'按顶部 state/q → 中部 stem/三支路/融合/head → 下部四类损失 → failure rail 的顺序讲'},
+  {id:'encoder-proof-plan',title:'G1–G3 预注册实验与通过标准',section:'共享偏振表征',minutes:1.2,purpose:'把源任务因果归因、物理稳定性和冻结迁移写成可执行、可失败、可缩小主张的三道 Gate',talk:['所有 Gate 先锁定同 backbone、参数量、小型head、训练步数、增强、随机种子和场景split，release test只运行一次，禁止测试集调参','G1 在PolaRGB 49/10/8场景上比较S0、repeat、matched noise、shuffle(Q,U)、correct和legal rotation；正确偏振必须胜过全部匹配对照、shuffle后回落、场景CI不跨0且clean样本不被明显改坏','G2 按DoLP、饱和、SNR、反射强度和MPFA方法分组，并单独改变noise、exposure和合法角度零点；通过要求潜变量等变、任务输出稳定、q能排序失败风险且回退不劣于强度基线','G3 在许可与split冻结后的UPLight或ZJU上冻结同一个E，只训练同容量head；比较random、RGB/ImageNet、S0、repeat/noise、shuffle和正确偏振，使用10/25/100%标注量与至少三个seed','任一Gate失败都有明确含义：G1失败不能归因偏振，G2失败不能声称物理可靠或安全部署，G3失败只能称源任务网络而不能称共享表示；因此不通过扩大模型、联合多任务或diffusion掩盖失败'],transition:'最后用前置证据、当前未完成状态和下一项最小交付物收束',cue:'先读顶部 fairness lock，再逐列讲 G1、G2、G3 的 PASS 与 FAIL，最后读底部主张边界'},
   {id:'conclusion',title:'结论与讨论',section:'收束',minutes:0.6,purpose:'收束候选选择反例、物理编码器契约和冻结迁移证据标准',talk:['路线 1 最重要的修正是：Oracle gap 混入候选数量、OCR 不稳定和噪声选择效应，不能当偏振证据','新方案不再逐样本挑一张图，而是用 S0/Q/U/q 学习可重投影、等变、可回退的共享表示','共享编码器尚未训练；下一项证据是 Gate A0 通过后的轻量源任务 pilot，而不是更大的网络','请重点评价 C0–C3 是否足以归因、四类物理约束是否合理、G1–G3 是否真正证明迁移'],transition:'进入提问与讨论',cue:'停顿，指向右侧 NOT TRAINED / NOT STARTED 状态'}
 ];
 window.__SPEAKER_NOTES__=SPEAKER_NOTES;

diff --git a/demo/tsinghua-ppt/images/SOURCES.md b/demo/tsinghua-ppt/images/SOURCES.md
@@ -53,8 +53,8 @@ BRDF 图均为 HTML/CSS/无文字 SVG 的本项目原创机制示意，不是相
 | 5 | 从任务读出、仪器响应到 DoFP 重建的三段误差源审计：E0 合成 OCR sanity、E1-a 已知 Stokes 仪器矩阵自检、E1-b PDD MPFA/AoLP 误差 | `e0_clean_code_sanity.json`、`e1_synthetic_instrument_recovery.json`、`e1_pdd_simple_baselines.json`；三段使用不同数据与指标，页面明确禁止直接相加为统一“误差份额” |
 | 6 | E2 真实四方向配对增量 → C2 全局亮度/对比度匹配 → C3 噪声选择下限与后端相关剩余信号 → 基础 Selector 和 C1 密集候选控制；由此导向“偏振物理 + 输入质量”联合先验 | 相机为 FLIR BFS-U3-51S5P / Sony IMX250MZR DoFP；公开方向图为作者/SDK 去马赛克后的 8-bit PNG；数字来自 `e0_e2_shdocs_easyocr_scale4.json`、`e0_e2_shdocs_tesseract_scale4.json`、`offline_extension_controls.json` 与 `shdocs_e2_string_length_audit_v1.json`；C1 未训练36路 Selector，只比较固定策略、候选数量与 GT Oracle 上界 |
 | 7 | “数据来源—物理处理—共享编码器—证据 Gate”技术闭环：PolaRGB 源任务，合成/PDD/SHDocs 审计，UPLight/ZJU 冻结迁移候选，`S₀/Q/U/q` 与匹配对照，以及 G1–G3 最小主张 | `polargb_release_v1.json`、`polargb_scene_split_v1.json`、`15_shared_polarization_encoder_pretraining_controls.md` A5、§6、§10；UPLight/ZJU 许可与 split 待核查；该页为预注册方案，没有训练或迁移结果 |
-| 8 | `S₀/Q/U` 解析 stem、`q_meas/q_pol`、共享编码器与重投影/等变/重组/稳定约束 | `15_shared_polarization_encoder_pretraining_controls.md` §10.2–10.3；`05_polarization_camera_physical_models.md` |
-| 9 | PolaRGB 源任务、扰动稳定和 UPLight/ZJU 冻结迁移三阶段实验矩阵 | `polargb_scene_split_v1.json`；`15_shared_polarization_encoder_pretraining_controls.md` §6、§10.4–10.5；UPLight/ZJU 许可与 split 仍待执行前核查 |
+| 8 | `S₀/Q/U` 解析 stem、`q_meas/q_pol` 双质量、强度/偏振/质量三支路编码器、逐尺度质量门控、源任务/冻结迁移头，以及重投影/等变/重组/稳定质量约束 | `15_shared_polarization_encoder_pretraining_controls.md` §10.2–10.3；`05_polarization_camera_physical_models.md`；该架构为预注册方案，尚未训练 |
+| 9 | G1 PolaRGB源任务归因、G2物理稳定与失败回退、G3 UPLight/ZJU冻结迁移的输入、指标、PASS和FAIL标准；顶部锁定公平预算，底部锁定可主张范围 | `polargb_scene_split_v1.json`；`15_shared_polarization_encoder_pretraining_controls.md` A5、§6、§10.4–10.5；UPLight/ZJU许可、下载与split仍待执行前核查，当前无训练结果 |
 | 10 | 路线 1 代理结果、拟议编码器契约与当前未训练状态总结 | 第 5–9 页上述证据与协议；“0 个已训练共享编码器”是当前项目状态，不是性能结果 |
 
 `14-sim-ambiguity.png` 与 `14-sim-reflection.png` 复制自
